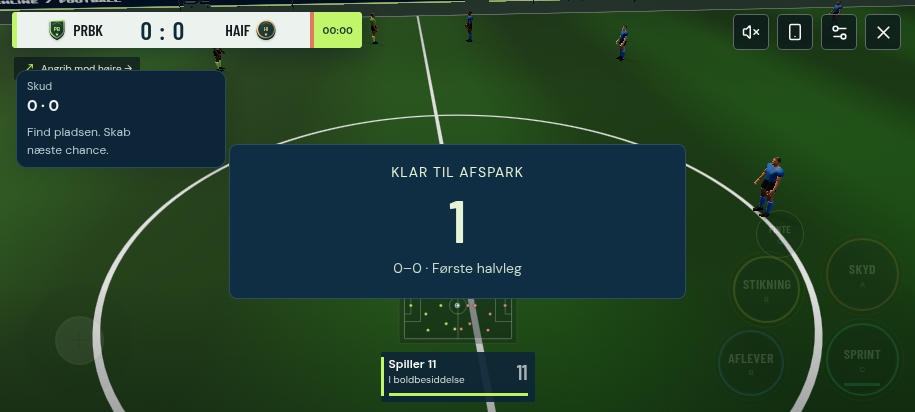
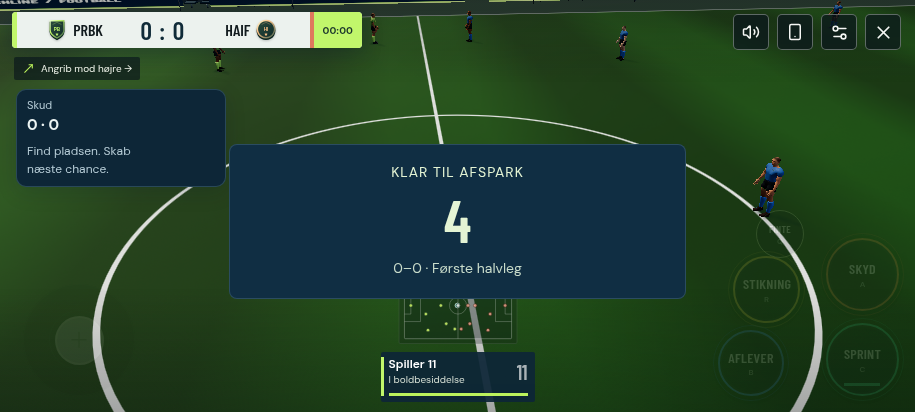
Keep catch-up ahead of rendering and verify kickoff sound and HUD separation

Changed region(s): [[0.0, 0.1456, 0.2448, 0.466], [0.4896, 0.4951, 0.5202, 0.5825]]

diff --git a/src/MatchSoundControl.jsx b/src/MatchSoundControl.jsx
@@ -12,6 +12,10 @@ export default function MatchSoundControl({goals=0,phase='waiting',controllerRef
   const audio=createMatchSound({storage:localMatchStorage()});sound.current=audio;if(controllerRef)controllerRef.current=audio;
   const unlock=()=>audio.unlock(),visibility=()=>{if(isAppHidden())audio.suspend();else audio.unlock();};
   document.addEventListener('pointerdown',unlock,true);document.addEventListener('keydown',unlock,true);const stopVisibility=watchAppVisibility(visibility);
+  // The start button was pressed before this lazy-mounted controller existed.
+  // Honour saved sound for that first kickoff, without autoplay on restoration
+  // in a document that has not received any real user interaction yet.
+  if(audio.enabled&&globalThis.navigator?.userActivation?.hasBeenActive)void audio.unlock();
   return()=>{document.removeEventListener('pointerdown',unlock,true);document.removeEventListener('keydown',unlock,true);stopVisibility();audio.dispose();sound.current=null;if(controllerRef?.current===audio)controllerRef.current=null;};
  },[]);
  useEffect(()=>{goalTracker.current(sound.current,goals,phase,goalWhistle);},[goals,phase,goalWhistle]);

diff --git a/src/stadium-console.css b/src/stadium-console.css
@@ -315,6 +315,19 @@
 .match-live-events time{color:var(--tl-accent);font-variant-numeric:tabular-nums}
 @media(max-height:450px){.game-console .match-live-pulse{top:70px;left:16px;width:210px;padding:8px 10px}}
 
+/* The direction hint occupies its own row beneath the scoreboard. Keep the
+   live card below that row, including the native safe area and compact HUD. */
+.game-console .game-match[data-active=true] .match-live-pulse{
+ top:calc(env(safe-area-inset-top,0px) + var(--match-edge,20px) + 83px);
+ left:max(20px,env(safe-area-inset-left,0px));
+}
+@media(max-height:450px){
+ .game-console .game-match[data-active=true] .match-live-pulse{
+  top:calc(env(safe-area-inset-top,0px) + var(--match-edge,12px) + 75px);
+  left:max(16px,env(safe-area-inset-left,0px));
+ }
+}
+
 /* Portrait menus flow normally; only ManualMatch asks for landscape. */
 @media(orientation:portrait) and (max-width:760px){
  .app-shell.game-console{height:auto;min-height:100dvh;overflow:visible}

diff --git a/src/ManualMatch.jsx b/src/ManualMatch.jsx
@@ -153,7 +153,7 @@ export default function ManualMatch({match,club,clubStyle,now,live=true,onClose,
       setComplete(s.complete);lastHud=t;lastHudCount=s.count;
      }
      if(s.count!==lastSavedCount&&(t-lastSave>1500||s.complete)){if(s.complete)saves.flush();else saves.request();lastSave=t;lastSavedCount=s.count;}
-     if(!isAppHidden()&&!overlayState.current.replay&&drawDue(t,s.complete)){scene.render(s.state,camera.current,s.complete);}
+     if(!isAppHidden()&&!overlayState.current.replay&&drawDue(t,s.complete,!catchingUp)){scene.render(s.state,camera.current,s.complete);}
      return live&&!s.complete;
     };
     visibleLoop=createVisibleMatchLoop({frame,onHide:()=>{resetControls();saves.flush();},onResume:()=>{scene.resume?.();audioFeed.current.reset();lastHud=0;}});

diff --git a/src/match-frame-pacer.js b/src/match-frame-pacer.js
@@ -4,7 +4,11 @@
 export function createMatchFramePacer(hz=30) {
  const interval=1000/hz;
  let next=null,previous=null;
- return (now,force=false)=>{
+ return (now,force=false,ready=true)=>{
+  // Expensive drawing must not keep physics behind the authoritative clock.
+  // Retain every tick; let subsequent RAF callbacks spend their four-input
+  // allowance catching up, then immediately resume the normal draw cadence.
+  if(!ready){next=null;previous=null;return false;}
   if(!Number.isFinite(now))return false;
   if(next===null||force||now<previous){previous=now;next=now+interval;return true;}
   previous=now;

diff --git a/dev/evidence/append-evidence59.py b/dev/evidence/append-evidence59.py
@@ -1,0 +1,14 @@
+from pathlib import Path
+from io import BytesIO
+from reportlab.pdfgen import canvas
+from reportlab.lib.colors import HexColor
+from reportlab.lib.utils import ImageReader
+from pypdf import PdfReader,PdfWriter
+root=Path.cwd();path=root/'dev/artifacts/Touchline37-Opdateringsrapport-TEST59.pdf';base=PdfReader(BytesIO(path.read_bytes()));buffer=BytesIO();pdf=canvas.Canvas(buffer,pagesize=(842,595));e=root/'test-evidence/cohesion-TEST59'
+pages=[('Samme figurer og sparkepose','before-figures-pass.png','after-figures-pass.png','Ens kamera og belysning. 29.642 trekanter / 48 draw calls i begge billeder.'),('Samme kampøjeblik – tick 550','before-915x412.png','after-915x412.png','Ens R3-state, boldposition, kamera og 915 × 412 px. Ingen retouchering.')]
+for i,(title,before,after,note) in enumerate(pages):
+ pdf.setFillColor(HexColor('#102330'));pdf.rect(0,0,842,595,fill=1,stroke=0);pdf.setFillColor(HexColor('#B7EF63'));pdf.setFont('Helvetica-Bold',20);pdf.drawString(32,556,'TEST59 · '+title);pdf.setFillColor(HexColor('#eef5ec'));pdf.setFont('Helvetica',10);pdf.drawString(32,530,note)
+ for x,name,label in [(32,before,'FØR · TEST58'),(437,after,'EFTER · TEST59')]:
+  img=ImageReader(str(e/name));w,h=img.getSize();height=373*h/w;pdf.setFillColor(HexColor('#B7EF63'));pdf.setFont('Helvetica-Bold',12);pdf.drawString(x,488,label);pdf.drawImage(img,x,480-height,width=373,height=height);pdf.setFillColor(HexColor('#c2d2d8'));pdf.setFont('Helvetica',9);pdf.drawString(x,461-height,name)
+ pdf.setFillColor(HexColor('#c2d2d8'));pdf.setFont('Helvetica',10);pdf.drawString(32,90,'Billedforskellen er et anatomisk og animationsmæssigt løft, ikke nye modeller eller en ny lysmotor.');pdf.drawString(32,71,'Disse Chromium-billeder dokumenterer ikke fysisk Android-FPS.');pdf.drawRightString(810,30,f'Billedbilag {i+1}/2');pdf.showPage()
+pdf.save();writer=PdfWriter();writer.append(base);writer.append(PdfReader(BytesIO(buffer.getvalue())));out=BytesIO();writer.write(out);path.write_bytes(out.getvalue());assert len(PdfReader(path).pages)==len(base.pages)+2;print('PDF med billedbilag:',len(PdfReader(path).pages),'sider')

diff --git a/docs/APP-COHESION-TEST59.md b/docs/APP-COHESION-TEST59.md
@@ -46,6 +46,21 @@ Udviklingsbranch: `codex/test59-app-cohesion`. Baseline: TEST58, commit
   kunne overleve mute/baggrund. Begge deler nu et loft på otte stemmer og stoppes
   straks. Sen AudioContext.resume/dekodning kan ikke genstarte mute. Genåbning
   af en halvlegs-/sluttilstand genafspiller ikke det historiske fløjt.
+  Et gemt lydvalg aktiveres også efter startknappens allerede registrerede
+  brugerinteraktion, så første afspark ikke kræver et ekstra tryk på banen.
+  Uden registreret brugerinteraktion beholdes den sikre gesture-fallback.
+
+- Ved stor tidsrestance blev 3D-tegning stadig udført mellem de små
+  fysikbatcher. Hvis en tegning tog 250 ms, kunne fire inputs pr. callback
+  aldrig indhente en 20 Hz-simulation. Tegning holder nu kort pause ved mindst
+  ét sekunds restance; callbacks fortsætter og tegnecadencen nulstilles rent.
+  Ingen fysikticks droppes. I en udtrykkeligt syntetisk 250 ms-tegnemodel
+  indhentes startrestancen på 800 ms mod ingen indhentning før ændringen.
+  Dette er en scheduler-test, ikke en måling af telefonens FPS.
+
+- Visuel kontrol afslørede også, at livekortet dækkede bunden af retningstippet
+  under scoretavlen på lave skærme. Kortet placeres nu under sin egen
+  retningsrække med safe-area og mindst seks pixels målt afstand i browseren.
 
 ## Bevis og afgrænsning
 
@@ -67,7 +82,8 @@ Playwright og esbuild; alle HTTP-kald opfanges lokalt, ingen rigtig kamp startes
 Flowkontrollen bruger de faktisk pakkede webfiler og viser: R3-canvas klar før
 fiktiv kamp-POST, samme canvas efter overdragelse, ingen forældreløse skjulte
 hosts, første afslørede HUD i KICK_OFF, videre til PLAYING, backup og retur til
-menu. Menuer kontrolleres ved 320/360/384/390 px og lave/brede skærme, uden
+menu. Afspaksbilledet fastholdes ved første færdige frame via fixture-
+baggrundssignalet; derefter genoptages den normale kamp. Menuer kontrolleres ved 320/360/384/390 px og lave/brede skærme, uden
 vandret dokument-overflow, med seks genveje og `kr.`. Ingen runtime-/konsolfejl
 eller kald til eksterne værter i disse fixtures.
 
@@ -104,3 +120,25 @@ save-migration eller nulstilling af klub-, lyd- eller splash-valg.
 5. Mute midt i et fløjt, send appen i baggrunden og gå tilbage. Ingen gammel lyd,
    fast styrepude eller kamerahop. Luk kampen og kontrollér portrætmenuen.
    Spil derefter 10 minutter og eksportér ydelsesrapport for varme/FPS-vurdering.
+
+## Ændrede kildefiler
+
+- Figurer/animation: `src/pro-player.js`, `src/athlete-volume.js`,
+  `src/asset-player-animation.js`, `src/ball-body-response.js`,
+  `src/player-grounding.js`, `src/focus-marker.js`, `src/manual-scene.js`.
+- Kampstart/HUD/tegnebudget: `src/App.jsx`, `src/ManualMatch.jsx`,
+  `src/prepare-next-match.js`, `src/prepared-match-scene.js`,
+  `src/match-hud-state.js`, `src/match-frame-pacer.js`,
+  `src/stadium-console.css`.
+- Livscyklus: `src/app-visibility.js`, `src/match-visibility.js`,
+  `src/native-lifecycle.js`, `src/use-native-lifecycle.js`.
+- Lyd: `src/MatchSoundControl.jsx`, `src/match-sound.js`,
+  `src/match-sample-bank.js`, `src/match-audio-feed.js`.
+- Verifikation/bygning: `tests/app-cohesion.test.mjs`, `package.json`,
+  `dev/test-release.json`, de fire `dev/evidence/*59.mjs` scripts og billedbilagsgeneratoren,
+  denne rapport og `test-evidence/cohesion-TEST59*`.
+
+Den komplette filliste, APK-metadata og rapportgrundlaget gemmes sammen med
+TEST59-artefakterne. Det originale `player-rendering.js` er undersøgt og bevares;
+geometrien bearbejdes før dets eksisterende deling af skelet og sammenlægning
+af beklædningsmesh. Der er ingen ny modelkonvertering i hvert render-frame.
